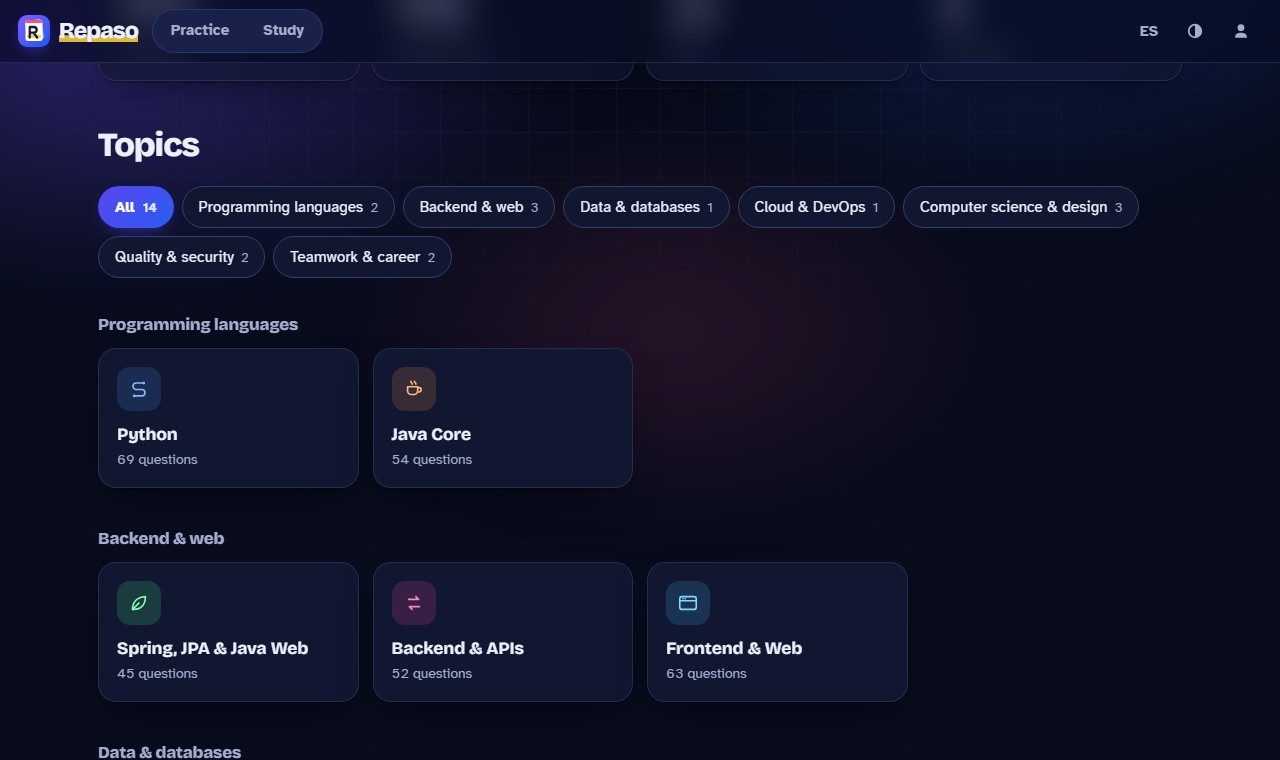
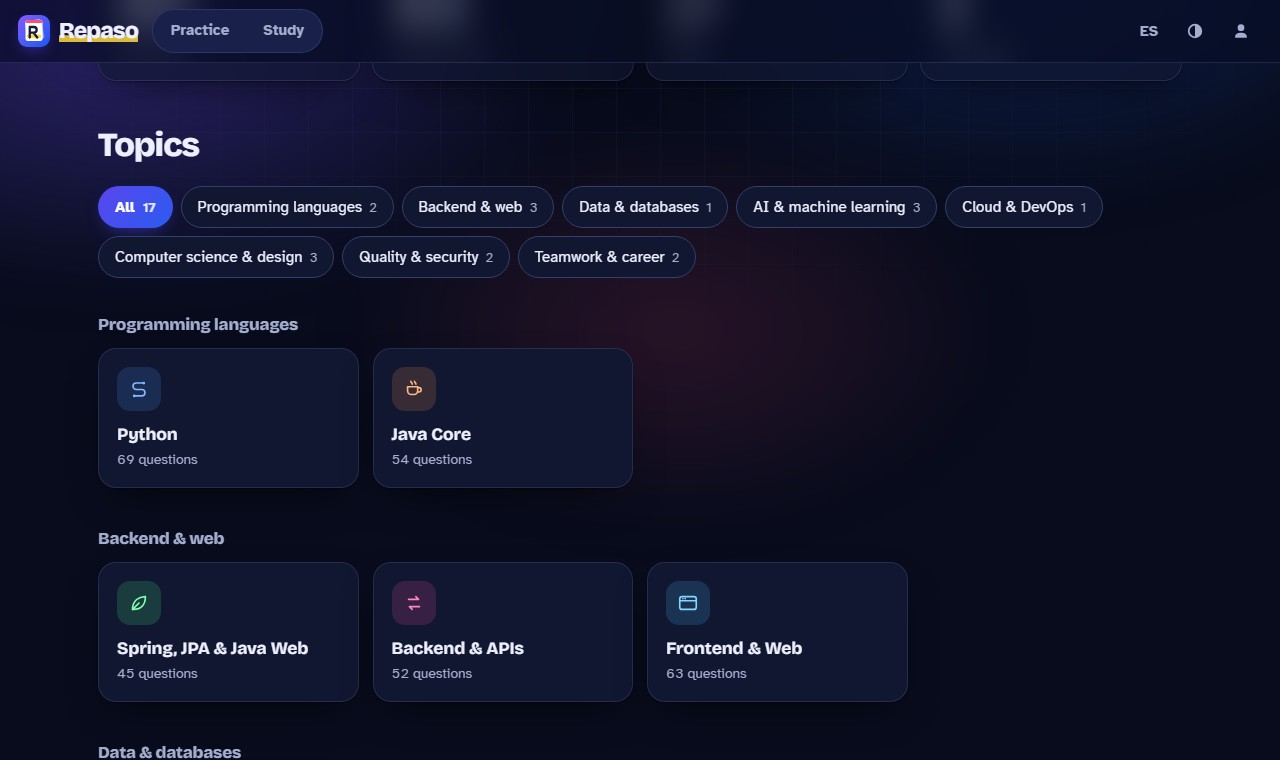
Update README numbers, topic table and media for the AI category

diff --git a/README.es.md b/README.es.md
@@ -5,7 +5,7 @@
 # Repaso
 
 **Practica para tu entrevista de software.**<br>
-777 preguntas en español y en inglés. Sin registro, sin anuncios, sin rastreadores.
+897 preguntas en español y en inglés. Sin registro, sin anuncios, sin rastreadores.
 
 [![Probarlo](https://img.shields.io/badge/probarlo-babylonace.github.io%2Frepaso-5b45ee?style=for-the-badge)](https://babylonace.github.io/repaso/)
 
@@ -22,7 +22,7 @@
 
 ## Qué es
 
-Práctica gratis para entrevistas de ingeniería de software, de nivel junior a intermedio: 777 preguntas y 745 términos de glosario en 14 temas. Entras y la primera pregunta ya está ahí.
+Práctica gratis para entrevistas de ingeniería de software, de nivel junior a intermedio: 897 preguntas y 852 términos de glosario en 17 temas. Entras y la primera pregunta ya está ahí.
 
 Tu progreso se queda en tu navegador y funciona sin conexión después de la primera visita. Si lo quieres en otro dispositivo puedes iniciar sesión con Google o GitHub, pero nada depende de eso.
 
@@ -53,7 +53,7 @@ Tu progreso se queda en tu navegador y funciona sin conexión después de la pri
   </tr>
 </table>
 
-<img src="docs/img/topics-dark.jpg" alt="Los 14 temas como tarjetas">
+<img src="docs/img/topics-dark.jpg" alt="Los 17 temas como tarjetas">
 
 <p align="center">
   <img src="docs/img/mobile-dark.jpg" width="230" alt="Portada en el móvil, tema oscuro">
@@ -74,6 +74,8 @@ Las capturas están en inglés, la web también se ve en español con el botón 
 | Backend y APIs | 52 | Testing | 48 |
 | Bases de datos y SQL | 59 | Preguntas de comportamiento | 40 |
 | Algoritmos y estructuras de datos | 56 | Diseño de sistemas | 46 |
+| Fundamentos de ML | 40 | LLMs, RAG y agentes | 40 |
+| MLOps y despliegue | 40 | | |
 
 ## Cómo funcionan las cajas
 

diff --git a/README.md b/README.md
@@ -5,7 +5,7 @@
 # Repaso
 
 **Practice for your software interview.**<br>
-777 questions in English and Spanish. No signup, no ads, no trackers.
+897 questions in English and Spanish. No signup, no ads, no trackers.
 
 [![Try it](https://img.shields.io/badge/try%20it-babylonace.github.io%2Frepaso-5b45ee?style=for-the-badge)](https://babylonace.github.io/repaso/)
 
@@ -22,7 +22,7 @@
 
 ## What it is
 
-Free practice for software engineering interviews, junior to mid level: 777 questions and 745 glossary terms across 14 topics. You open it and the first question is already there.
+Free practice for software engineering interviews, junior to mid level: 897 questions and 852 glossary terms across 17 topics. You open it and the first question is already there.
 
 Your progress stays in your browser, and it works offline after the first visit. If you want it on another device you can sign in with Google or GitHub, but nothing depends on that.
 
@@ -53,7 +53,7 @@ Your progress stays in your browser, and it works offline after the first visit.
   </tr>
 </table>
 
-<img src="docs/img/topics-dark.jpg" alt="The 14 topics as cards">
+<img src="docs/img/topics-dark.jpg" alt="The 17 topics as cards">
 
 <p align="center">
   <img src="docs/img/mobile-dark.jpg" width="230" alt="Home page on a phone, dark theme">
@@ -72,6 +72,8 @@ Your progress stays in your browser, and it works offline after the first visit.
 | Backend & APIs | 52 | Testing | 48 |
 | Databases & SQL | 59 | Behavioral | 40 |
 | Algorithms & DS | 56 | System Design | 46 |
+| ML fundamentals | 40 | LLMs, RAG & agents | 40 |
+| MLOps & serving | 40 | | |
 
 ## How the review boxes work
 
